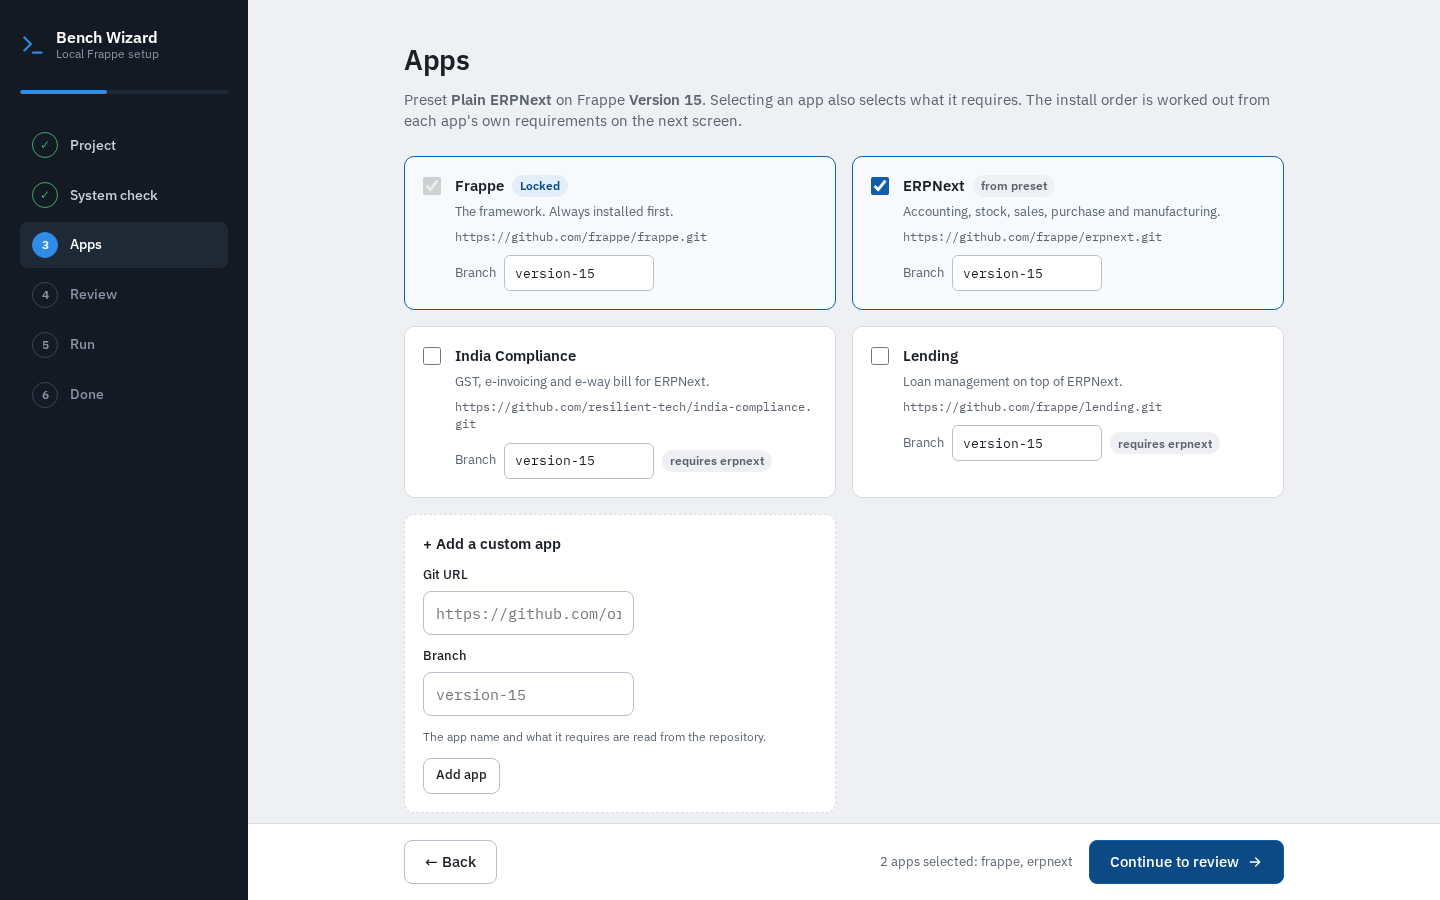
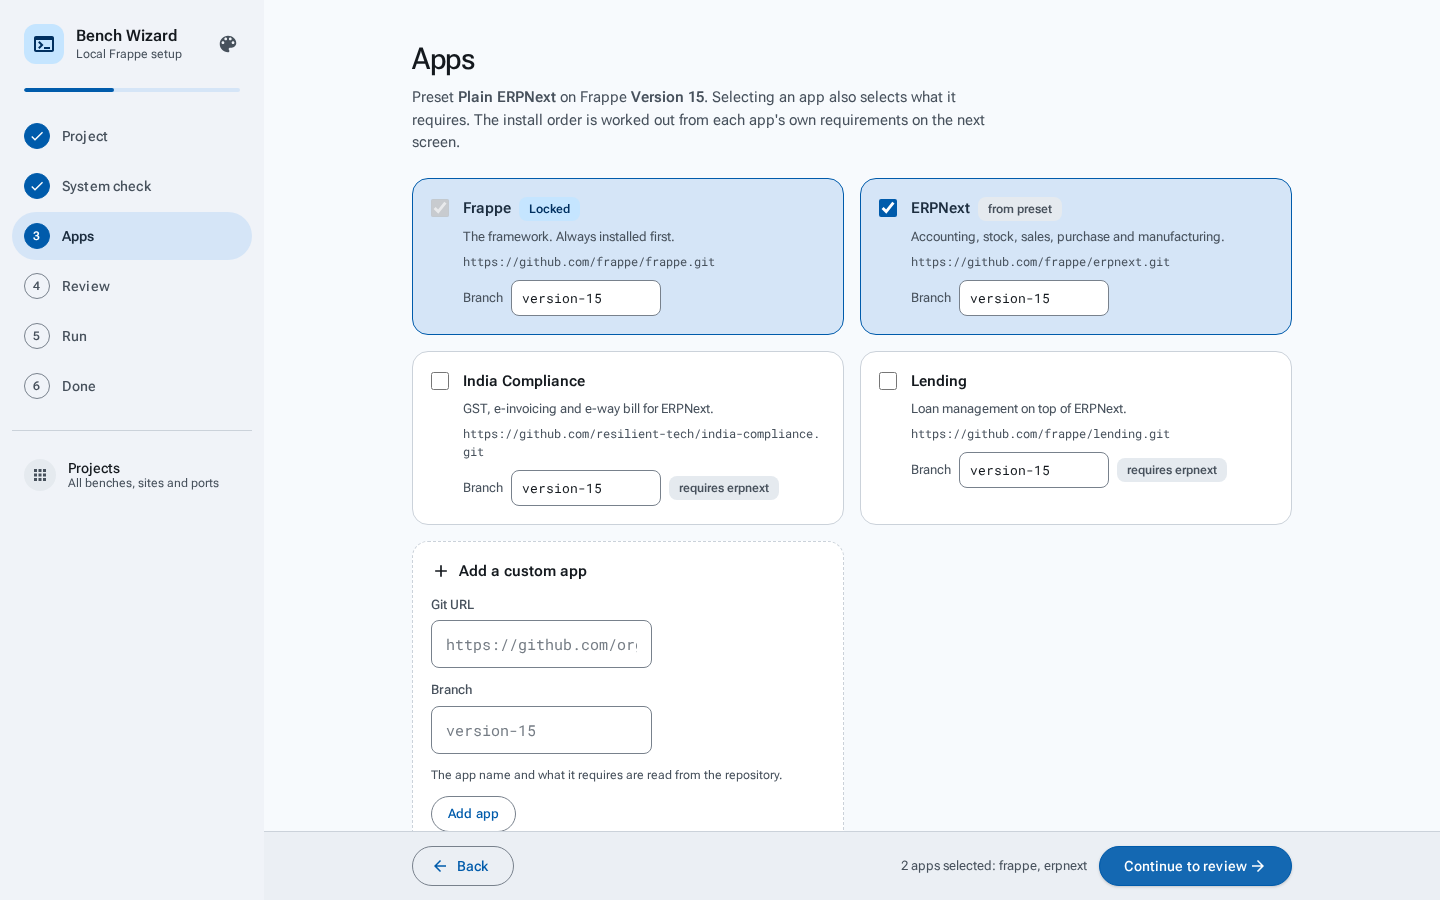
Update README for Projects, parallel runs, Marketplace and themes
New sections: migrating several sites at once, the Projects screen (Start,
Stop, Migrate, Build, Running filter, memory and disk warnings), ports per
bench with the slot table and what Apply changes, several runs at once, and
Appearance (palettes, dark mode, backgrounds, own photo). New
troubleshooting rows; future plans brought up to date.

Screenshots retaken in the Material 3 look, plus Projects, migrate, the
Marketplace picker, the Appearance panel and the dark Running view. They
come from the wizard itself with demo benches, a placeholder home folder
and a stand-in bench command.

diff --git a/README.md b/README.md
@@ -3,7 +3,12 @@
 A local web wizard that sets up a Frappe bench (version 15 or 16) on Ubuntu or macOS. It checks
 prerequisites, installs what is missing, then runs `bench init`, `get-app`, `new-site`
 and `install-app` for the apps you choose, optionally restoring a database backup. It can also
-**add apps to a bench you already have**, or add a new site to it from a backup.
+**add apps to a bench you already have**, add a new site to it from a backup, or **migrate several of its sites
+at once**.
+
+Its **Projects** screen lists every bench on the machine with its sites, ports, memory use and state. From there
+you start and stop benches, run `migrate` or `build`, and give each bench ports of its own so several can run side
+by side. Apps can come from the catalog, any Git URL, or the free apps in the **Frappe Cloud Marketplace**.
 
 Python 3.10+ standard library only. No build step, no dependencies.
 
@@ -15,10 +20,13 @@ Python 3.10+ standard library only. No build step, no dependencies.
 - [Quick start](#quick-start)
 - [How it works](#how-it-works)
 - [Using the wizard, step by step](#using-the-wizard-step-by-step)
-- [Adding apps to an existing bench](#adding-apps-to-an-existing-bench)
+- [Adding apps to an existing bench](#adding-apps-to-an-existing-bench) · [Migrating several sites at once](#migrating-several-sites-at-once)
+- [Projects: every bench on this machine](#projects-every-bench-on-this-machine)
+- [Several runs at once](#several-runs-at-once)
 - [Browser extension: copy apps from a Frappe Cloud site](#browser-extension-copy-apps-from-a-frappe-cloud-site)
 - [Which GitHub account it uses](#which-github-account-it-uses)
 - [Catalog: your own apps and presets](#catalog-your-own-apps-and-presets)
+- [Appearance: colours, dark mode and backgrounds](#appearance-colours-dark-mode-and-backgrounds)
 - [macOS](#macos) · [Troubleshooting](#troubleshooting) · [Tests](#tests) · [Notes](#notes) · [Future plans](#future-plans) · [License](#license)
 
 ## What you can use it for
@@ -30,6 +38,10 @@ Python 3.10+ standard library only. No build step, no dependencies.
 | **Mirror a Frappe Cloud site** | The [browser extension](#browser-extension-copy-apps-from-a-frappe-cloud-site) copies the site's apps, repos and branches into the wizard, so your local bench matches what runs in the cloud. |
 | **Try an app** on a bench you already use | [Existing-bench mode](#adding-apps-to-an-existing-bench) fetches only what is missing, installs it on the site you pick and rebuilds assets. |
 | **Standardise team setups** | A shared `catalog.json` (or your own `~/.config/bench-wizard/catalog.json`) gives everyone the same versions, apps and presets. |
+| **Run several projects on one machine** | [Projects](#projects-every-bench-on-this-machine) finds every bench, shows which share ports, and gives each its own web, Socket.IO and Redis ports so they can run at the same time. |
+| **Start, stop and watch benches** | Start or stop any bench from one screen, see the memory each running bench holds, and get a warning when memory or disk runs low. |
+| **Migrate many sites after a pull** | [Migrate sites](#migrating-several-sites-at-once) runs `bench --site … migrate` on the sites you tick, side by side, each with its own log. |
+| **Try a Marketplace app** | Pick a free app from the [Frappe Cloud Marketplace](#3-apps); the wizard finds its repository and the branch for your Frappe version. |
 | **Work with private apps** | Paste a token-carrying HTTPS URL or choose an SSH host alias; the token is kept in memory only and scrubbed from logs. |
 
 ## Quick start
@@ -54,7 +66,8 @@ while you use it; press Ctrl+C to stop.
 
 The wizard is a small Python HTTP server bound to `127.0.0.1` that serves a single-page UI. Every request
 from the page carries a per-run token, so other local pages cannot drive it. Nothing is written to disk until
-you press **Start setup** on the Review step.
+you press **Start setup** on the Review step; the [Projects](#projects-every-bench-on-this-machine) screen only reads
+files until you press one of its buttons.
 
 ```mermaid
 flowchart LR
@@ -116,7 +129,13 @@ site database. Click **Verify**. If root has no password yet (a fresh install), 
 - **Add a custom app** from any Git URL. Its name and requirements are read from the repository.
 - **Paste an app list** as JSON, `[{"url": "…", "branch": "…"}]`. This is what the
   [extension](#browser-extension-copy-apps-from-a-frappe-cloud-site) fills for you.
+- **Frappe Cloud Marketplace.** Type an app's name (the list is the Marketplace's published apps) and click
+  **Look up**. The wizard reads the app's public Marketplace page for its repository, supported versions and
+  whether it is free, then lists the repository's branches with the one for your Frappe version first. **Add app**
+  adds it like a custom app. A repository the page links to that is private or gone is reported as such.
 - **Import from Frappe Cloud** shows whether the extension is connected.
+
+![Frappe Cloud Marketplace: look up an app, see its versions and price, pick a branch](screenshots/8-marketplace.png)
 
 Private HTTPS URLs may carry a token (`https://<token>@github.com/org/repo.git`). It is passed to git through
 the environment, held in memory for the session only, and scrubbed from logs.
@@ -133,12 +152,13 @@ folder free, MariaDB login, disk space, `git ls-remote` for every app, Python, B
 
 A live log for each step. If a step fails, the run stops there. Fix the cause, then **Retry step N**. If the step
 cannot run over a partial result, the wizard cleans that up first. **Cancel** stops the current step and leaves
-what was created on disk.
+what was created on disk. The run is listed under **Runs** in the side bar, so you can start
+[another one](#several-runs-at-once) and come back to it.
 
 ### 6. Done
 
-How to start the bench (`cd <folder> && nvm use && bench start`), the site URL and login, the installed apps, and the
-command to update later:
+How to start the bench (`cd <folder> && nvm use && bench start`, or **Start** on the Projects screen), the site URL
+and login, the installed apps, and the command to update later:
 
 ```bash
 cd ~/frappe-bench && nvm use && bench update --pull --build --patch
@@ -164,6 +184,8 @@ Then pick one of:
   and are only installed on the site; the rest are fetched.
 - **New site from a backup.** Restore a production backup as a new site of this bench, for example to look
   into an issue. You get the same file, key and safety-switch fields as a new bench.
+- **Migrate sites.** Run `bench migrate` on several sites of the bench at once; see
+  [below](#migrating-several-sites-at-once).
 
 ```mermaid
 flowchart LR
@@ -179,6 +201,74 @@ flowchart LR
 Nothing in this mode removes anything from the bench, and the existing site keeps its own database login, so the
 MariaDB root password is not needed unless you add a site. If the bench has no `.nvmrc`, or an app needs a newer
 Node than the bench uses, the wizard writes the bench's `.nvmrc` so `nvm use` picks the right one.
+
+## Migrating several sites at once
+
+![Three sites of one bench migrating side by side while another bench builds its assets](screenshots/7-migrate-sites.png)
+
+Load a bench on the Project step, choose **Migrate sites** and tick the sites. The Review step shows one
+`bench --site <site> migrate` per site; **Start migrate** runs them all at the same time, each with its own log. The
+run starts the bench's own Redis while it works, since migrate queues jobs. If some fail, **Retry failed** runs only those
+again. The Projects screen's **Migrate** button does the same for one site, or all of a bench's sites, without the
+wizard steps.
+
+## Projects: every bench on this machine
+
+![Projects: memory and disk left, every bench with its sites, ports and state, and Start, Migrate and Build buttons](screenshots/6-projects.png)
+
+Click **Projects** in the side bar. The wizard looks for benches (a folder with `apps/frappe` and `sites/`) up to
+three folders deep in your home folder, skipping hidden folders and the inside of benches, so the scan takes well
+under a second. Benches elsewhere, or deeper, can be added with **Add a bench**; they, and every bench the wizard
+creates, are remembered in `~/.local/state/bench-wizard/benches.json`.
+
+**This machine** shows free memory and disk, how many benches are running and the memory they hold. A red bar and
+a note appear when less than 2 GB of memory or 10 GB of disk is free; the same note shows on the Review step before
+you start a run.
+
+Each bench row has:
+
+| Control | What it does |
+|---|---|
+| **Site** | The site Migrate acts on, or *All sites*. |
+| **Start** | Runs `bench start` in the bench, in a session of its own, so it keeps running after you close the wizard. Its output goes to the bench's `logs/bench-start.log`. It is refused while one of the bench's ports is in use, and if `bench start` stops within 3 seconds (for example Redis could not bind its port), its last lines are shown. |
+| **Stop** | Stops the bench the way Ctrl+C does: honcho stops every process it started. |
+| **Migrate** / **Build** | Run `bench --site … migrate` or `bench build` right away, as a run you can follow under **Runs**. |
+| **Ports** | The bench's web, Socket.IO, file watcher, Redis cache and Redis queue ports. Ports shared with another bench are outlined in red. |
+
+The **All / Running** chips above the table show every bench or only the ones running now.
+
+![Dark theme with the Running filter: only the benches that are running, with their Stop buttons](screenshots/10-dark-running.png)
+
+### Ports of its own for every bench
+
+`bench init` picks ports by looking only at sibling bench folders, so benches in different folders usually all get
+8000, 9000, 11000 and 13000, and only one of them can run at a time. The wizard gives each bench a **slot** *n*,
+with every port at bench's default plus *n*:
+
+| Slot | Web | Socket.IO | File watcher | Redis cache | Redis queue |
+|---|---|---|---|---|---|
+| 0 (bench's defaults) | 8000 | 9000 | 6787 | 13000 | 11000 |
+| 1 | 8001 | 9001 | 6788 | 13001 | 11001 |
+| *n* | 8000 + *n* | 9000 + *n* | 6787 + *n* | 13000 + *n* | 11000 + *n* |
+
+**Auto-allocate ports** fills in new ports for every bench that shares one with another. Running benches keep
+theirs; each moved bench gets the first slot no bench uses and nothing on the machine listens on. Check the
+highlighted fields (or type your own) and click **Apply port changes**. For each bench this runs three steps:
+
+1. `bench config set-common-config` for the ports and the Redis URLs in `sites/common_site_config.json`,
+2. `bench setup redis`, which rewrites `config/redis_cache.conf` and `redis_queue.conf`,
+3. sets `--port` on the `web:` line of the bench's `Procfile`, leaving its other lines as they are.
+
+A bench uses its new ports the next time it starts, so its sites then open on the new web port. New benches made
+by the wizard get a free slot from the start.
+
+## Several runs at once
+
+Every setup, migrate, build or port change is a **run**, listed under **Runs** in the side bar with its state.
+While one runs you can click **New setup** and start another: a second bench, a migrate in another bench, a build.
+Click a run to see its steps and log again; the × removes a finished run from the list. Two runs that work in the
+same bench folder are refused, so they cannot get in each other's way. Closing the window does not stop runs:
+reopen the wizard's URL to come back to them.
 
 ## Browser extension: copy apps from a Frappe Cloud site
 
@@ -280,6 +370,23 @@ it is merged on top, and its presets show a *Local* badge.
 
 An app with no branch for the chosen Frappe version shows *Not available* and cannot be selected.
 
+## Appearance: colours, dark mode and backgrounds
+
+![The Appearance panel: colour, light or dark mode, and a background](screenshots/9-appearance.png)
+
+The palette button next to the title opens **Appearance**:
+
+- **Colour.** Ocean (the default), Teal, Forest, Violet, Rose, Amber or Slate. The interface follows Material
+  Design 3: each colour is a seed from which the whole set of tones, for buttons, selected cards, notes and the
+  side bar, is worked out.
+- **Mode.** Light, Dark, or System, which follows your computer's setting as it changes.
+- **Background.** None, a drawn scene (Mountains, Waves, Dots) tinted in the chosen colour, or **Photo**: your own
+  image. The photo is scaled down to at most 2400 pixels on its long side and kept as a JPEG of a few hundred KB;
+  **Dim** sets how strongly it is faded behind the screens (never below 45%), and the page heading gets a panel of
+  its own so it stays readable on any picture. **Change image** and **Remove** sit under it.
+
+The choice is kept in the browser (its local storage), not in a file, so another browser starts with the defaults.
+
 ## macOS
 
 Install [Homebrew](https://brew.sh) first; the wizard installs everything else through it, as your user.
@@ -310,6 +417,11 @@ folders in your home, and runs without the DevTools pipe, so reopening there ope
 | The extension card never shows *connected* | Start the wizard without `--port`, reload the extension, and make sure ports 47615–47619 are not all taken. |
 | "this bench runs Frappe N" when loading a bench | Existing-bench mode supports only the versions in the catalog (15 and 16). |
 | A site shows "Cannot read its apps" | `bench --site <site> list-apps` failed. Check that MariaDB is running and the site's config is valid. |
+| **Start** says "port N is in use" | Another bench (or program) holds that port. Stop it, or use **Auto-allocate ports** and **Apply** so this bench gets ports of its own. |
+| **Start** says "bench start stopped right away" | The lines shown come from `logs/bench-start.log` in the bench. A Redis "Address already in use" means a port clash; a missing `Procfile` means the bench needs `bench setup procfile`. |
+| "another run is still working in this bench folder" | Wait for that run (under **Runs**) to finish, or cancel it. |
+| A Marketplace app's branches cannot be listed | Its Marketplace page links to a repository that is private or gone. Ask the publisher for access, or add the app from where it lives now as a custom app. |
+| **Stop**, or the running state, is unavailable | Running benches are found through `/proc`, so this works on Linux only. On a Mac, stop a bench with Ctrl+C where it runs. |
 
 ## Tests
 
@@ -323,22 +435,18 @@ python3 -m unittest discover -s tests
 - Passwords and tokens are never written to disk or shown in logs.
 - A new bench always goes into a new folder. Existing-bench mode only adds apps, or a new site, to a bench; it
   never removes anything.
-- Screenshots in this README were taken from a real run, with demo bench data and a placeholder home folder.
+- Screenshots in this README were taken from the wizard itself, with demo benches, a placeholder home folder and a
+  stand-in `bench` command.
 
 ## Future plans
 
-**Several setups at once.** Today every window talks to one wizard, which holds one plan and one run: a second
-window shows the setup already running, and starting another is refused. To set up two benches side by side:
-
-1. **Unique Redis ports per bench.** `bench init` picks ports from sibling bench folders, so two benches made at
-   the same time, or in different parent folders, can both get 11000/13000 and clash. The wizard should pick free
-   ports itself and write them to the bench's config right after `bench init`. Worth doing even for one setup at
-   a time.
-2. **One System check install at a time.** Homebrew and apt hold locks, so installs from different setups
-   should queue.
-3. **Sessions.** Each window gets its own plan, run, log stream and Done screen; opening the app again starts a
-   new session, and a "running setups" list reopens one whose window was closed. Bench folders and site names
-   are checked against other active sessions.
+- **One System check install at a time.** Homebrew and apt hold locks, so installs started from two runs at once
+  should queue rather than fail.
+- **A Docker sandbox bench.** A throwaway bench in a container for trying something out, or for a functional team
+  to test on without setting up a machine.
+- **Running benches on macOS.** Find them with `ps` instead of `/proc`, so Projects can show and stop them there too.
+- **Appearance that follows you.** Keep the colour, mode and background with the wizard's settings instead of in
+  one browser.
 
 Concurrent `pip` and `yarn` runs share caches and can occasionally fail; retrying the step is the fallback.
 
